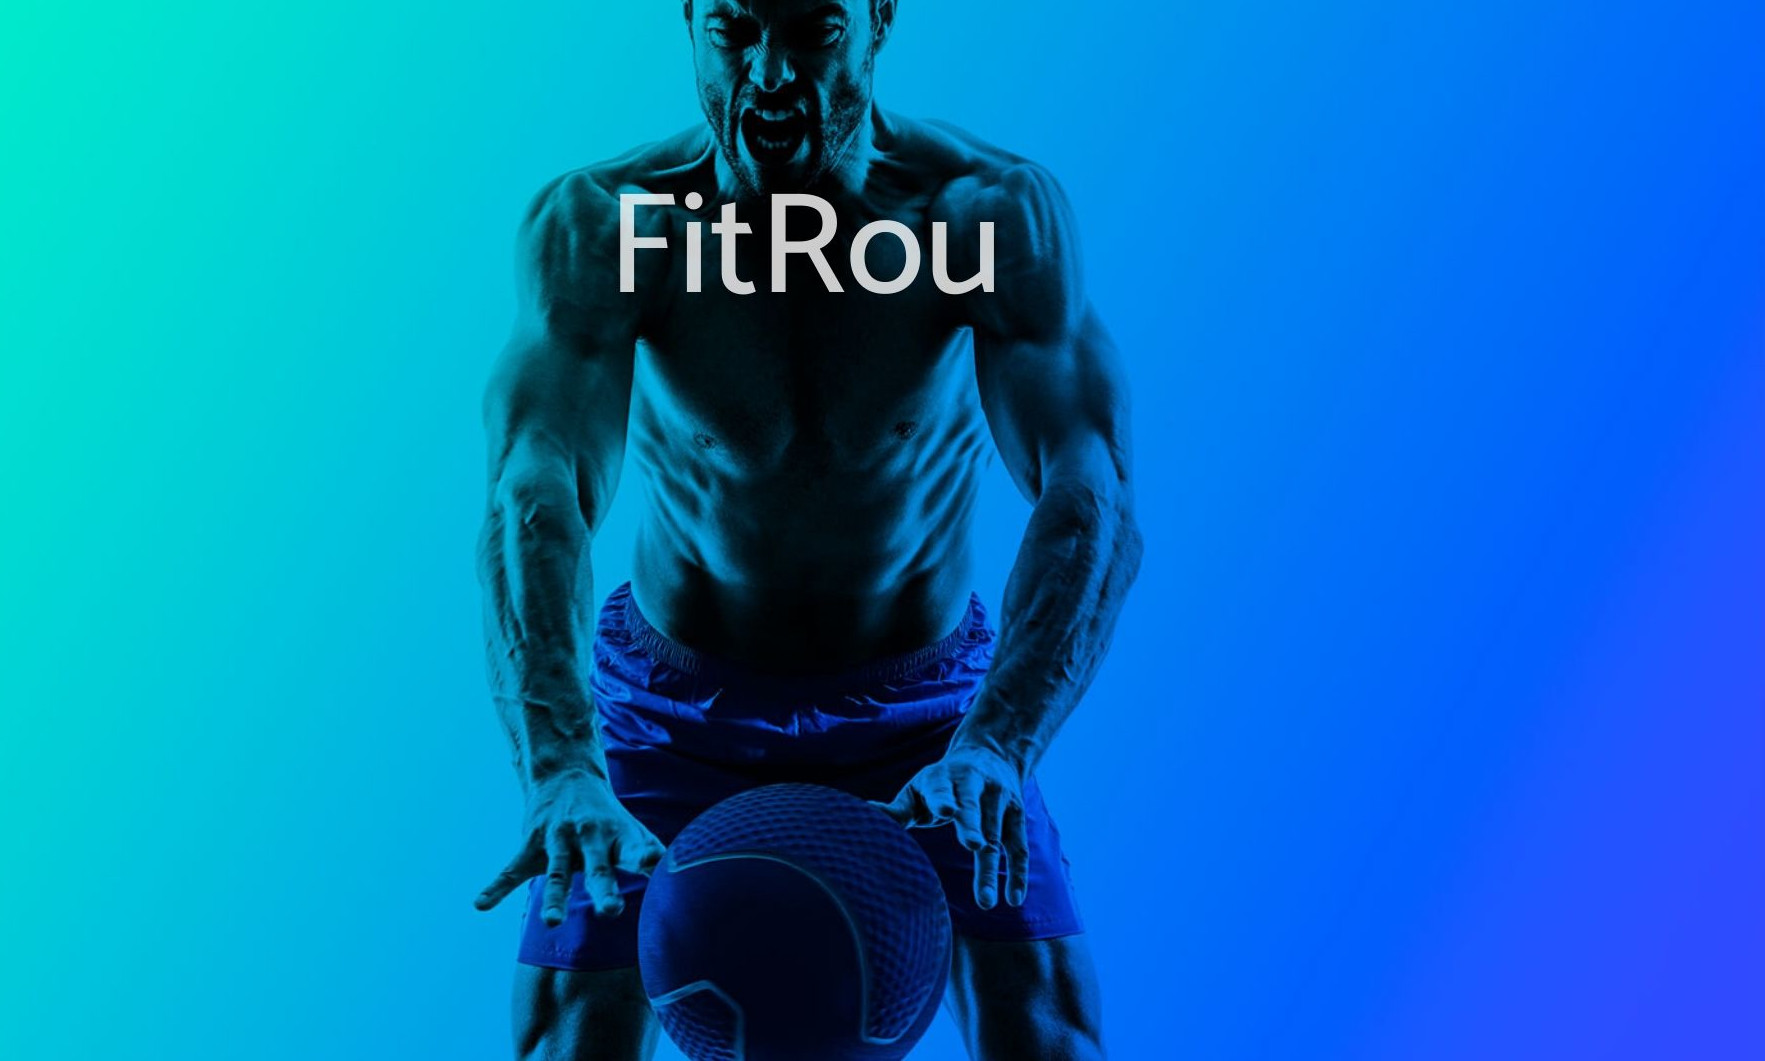
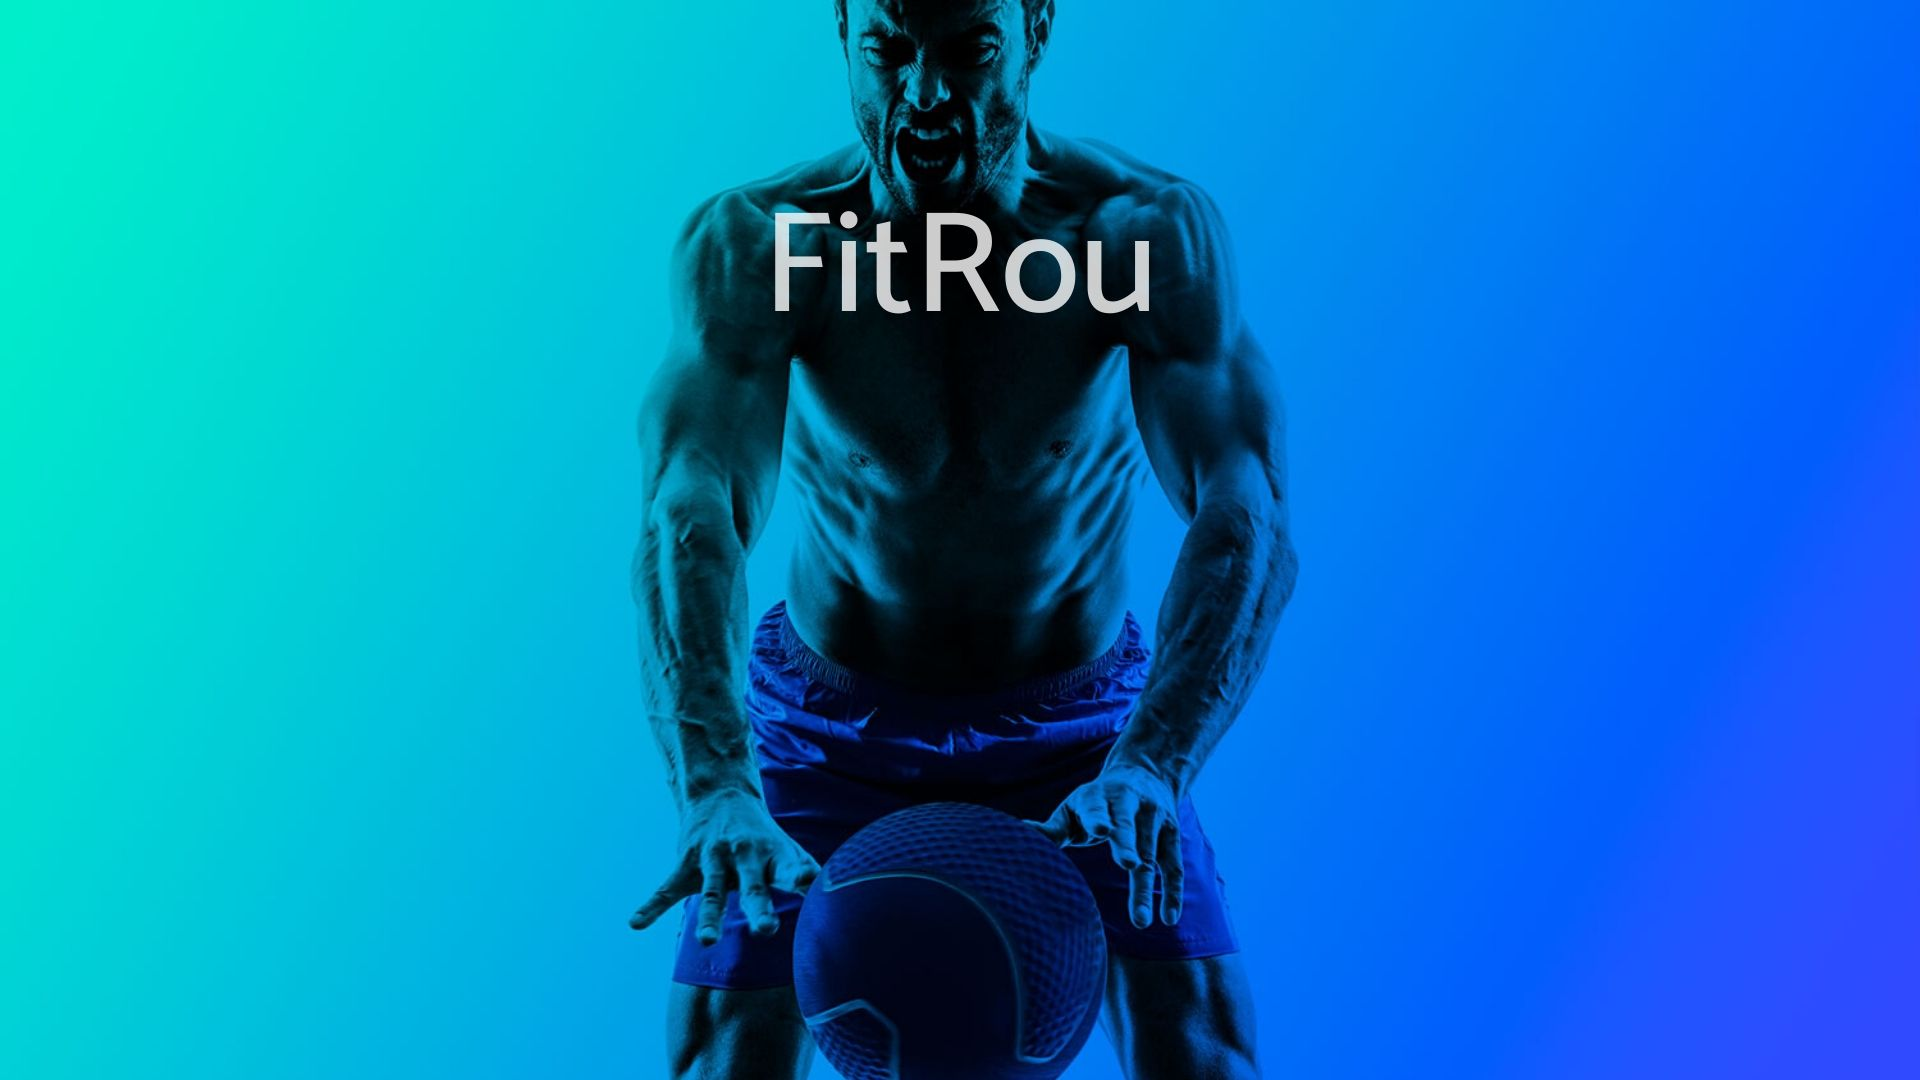
Algunas correcciones y header responsive

Changed region(s): [[0.2493, 0.0, 0.6856, 1.0]]

diff --git a/templates/rutina/rutinas.html b/templates/rutina/rutinas.html
@@ -35,9 +35,7 @@
       <div class="card-body">
         <div class="row">
           <div class="col-lg-6">
-            <a href="/rutinas/ver_rutina/{{rutina.id}}">
               <img class="img-fluid rounded" src="{% static 'img/img_portada_rutina.jpg'%}" alt="">
-            </a>
           </div>
           <div class="col-lg-6">
               <div class="float-right">
@@ -98,9 +96,7 @@
       <div class="card-body">
         <div class="row">
           <div class="col-lg-6">
-            <a href="/rutinas/ver_rutina/{{rutina.id}}">
               <img class="img-fluid rounded" src="{% static 'img/img_portada_rutina.jpg'%}" alt="">
-            </a>
           </div>
           <div class="col-lg-6">
             <h2 class="card-title">{{rutina.nombre}}</h2>
@@ -164,9 +160,7 @@
       <div class="card-body">
         <div class="row">
           <div class="col-lg-6">
-            <a href="/rutinas/ver_rutina/{{rutina.id}}">
               <img class="img-fluid rounded" src="{% static 'img/img_portada_rutina.jpg'%}" alt="">
-            </a>
           </div>
           <div class="col-lg-6">
             <h2 class="card-title">{{rutina.nombre}}</h2>

diff --git a/templates/home/verPerfil.html b/templates/home/verPerfil.html
@@ -569,7 +569,7 @@
                                                                         <button type="button" class="btn btn-primary" id="graficar" onclick="evolucionActividad()">Graficar</button>
                                                                     </div>
                                                                 <br>
-                                                                <canvas id="lineChart2" height="auto" width="auto"></canvas>
+                                                                <canvas id="lineChart2" height="200px" width="400px"></canvas>
                                                                 {%endif%}
                                                             </div>
                                                         </div>

diff --git a/templates/rutina/clases.html b/templates/rutina/clases.html
@@ -438,7 +438,7 @@
                         <div class="row form-group">
                             <div class="col-5 col-md-5">Cuéntanos como te ha ido</div>
                             <div class="col-6 col-md-6">
-                                <textarea onkeyup="mensajeChange()" name="descripcion" id="mensaje" cols="35" rows="5" class="form-control"></textarea>
+                                <textarea onkeyup="mensajeChange()" name="descripcion" id="mensaje" cols="35" rows="5" class="form-control" maxlength="128"></textarea>
                                 <br>
                                 <input class="form-check-input" type="checkbox" id="enviar" value="1" name="check" disabled>
                                 <label class="form-check-label" for="disabledFieldsetCheck">

diff --git a/templates/chat/inbox.html b/templates/chat/inbox.html
@@ -436,7 +436,7 @@
           </div>
           <div class="type_msg">
             <div class="input_msg_write">
-              <input type="text" class="write_msg" placeholder="Escribe un mensaje" id="mensaje" onkeyup="mensajeChange()" maxlength="256"/>
+              <input type="text" class="write_msg" placeholder="Escribe un mensaje" id="mensaje" onkeyup="mensajeChange()" maxlength="128"/>
               <button class="msg_send_btn" type="button" onclick="enviarMensaje('{{emisor.user_id}}','{{receptor.user_id}}')" id="enviar" disabled><i class="fa fa-paper-plane-o" aria-hidden="true"></i></button>
             </div>
           </div>

diff --git a/templates/home/home.html b/templates/home/home.html
@@ -162,7 +162,10 @@
   </div>  -->
     
   {%block imagen_principal%}
-  <header class="py-5 bg-image-full" style=" height:300px; width:100%; background-image: url('{% static "img/img_header.jpg"%}')";>
+  <header class="py-5 bg-image-full" style=" height:300px; width:100%; background-attachment: fixed;
+  background-position: top center;
+  background-size: cover;
+  position: relative; background-image: url('{% static "img/img_header.jpg"%}')";>
     
   </header>
   {%endblock imagen_principal%}

diff --git a/templates/home/paginaInicial.html b/templates/home/paginaInicial.html
@@ -35,7 +35,10 @@
         </div>
     </nav>   
 
-        <header class="py-5 bg-image-full" style=" height:500px; width:100%; background-image: url('{% static "img/mc_gregor.jpg"%}')";>
+        <header class="py-5 bg-image-full" style=" height:400px; width:100%; background-attachment: fixed;
+        background-position: top center;
+        background-size: cover;
+        position: relative; background-image: url('{% static "img/mc_gregor.jpg"%}')";>
     
         </header>
 </body>
